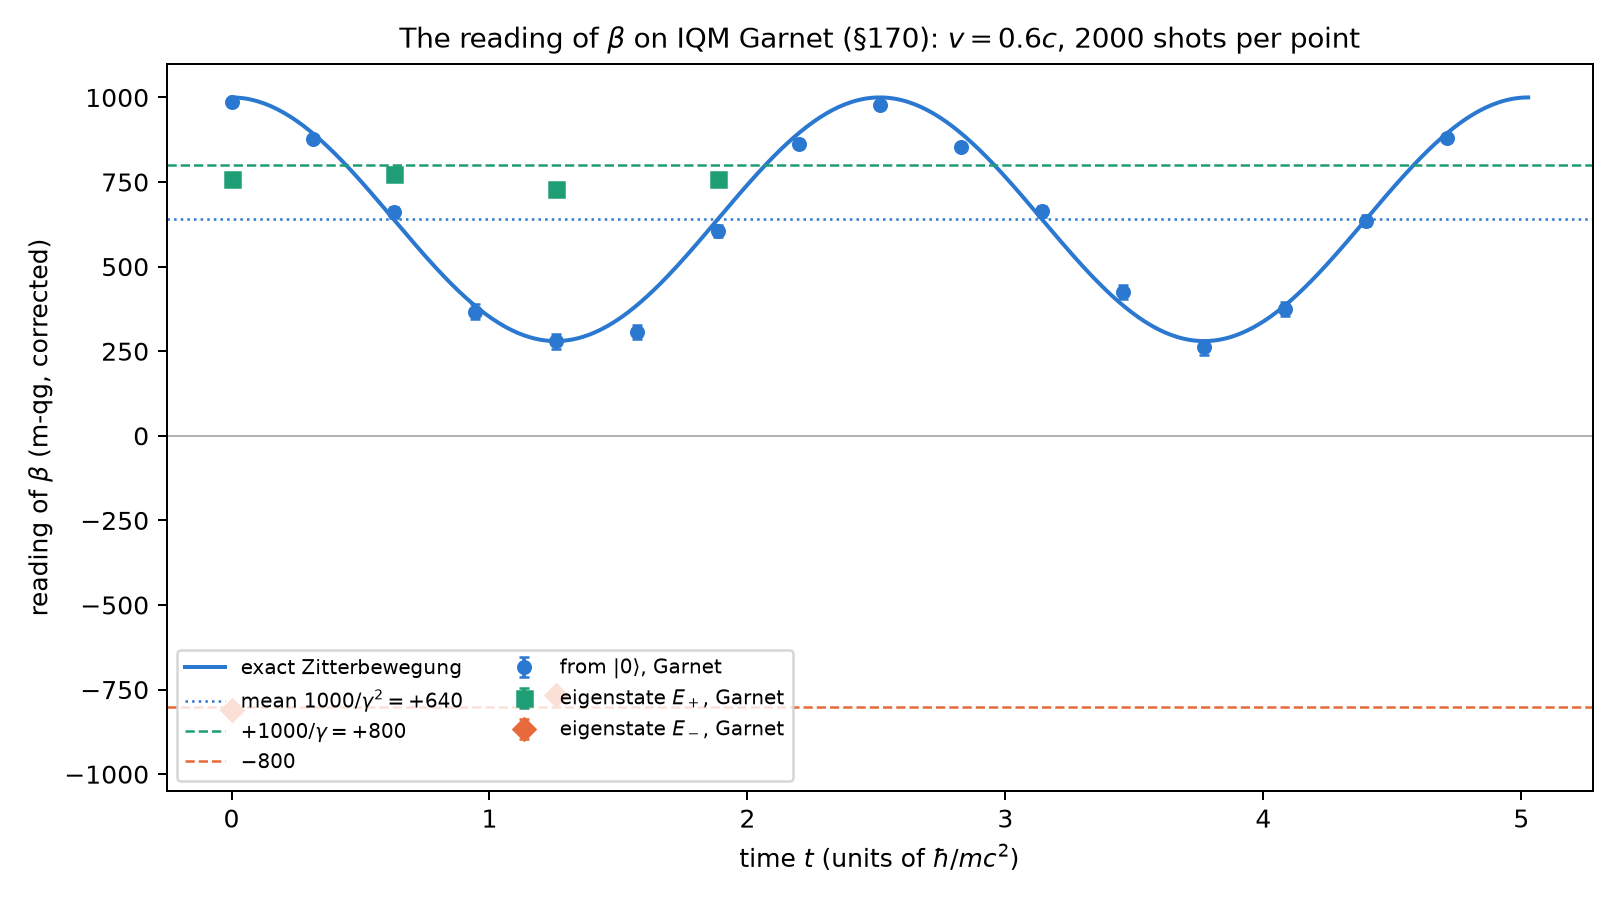
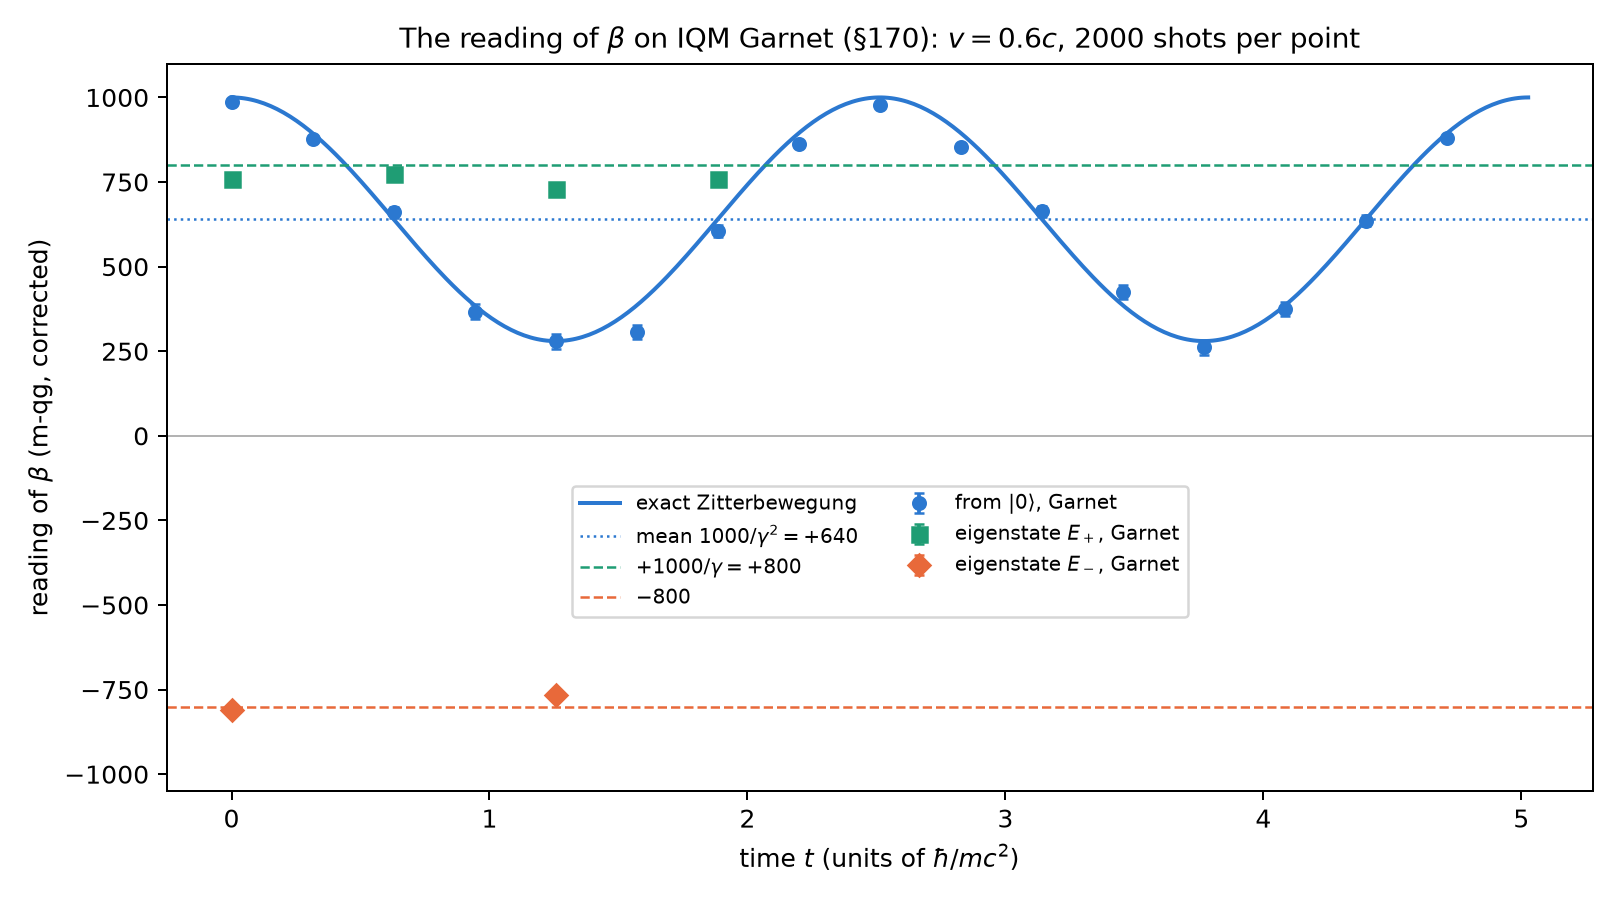
book, apéndice G y capítulo 1: la corrida §170 en IQM Garnet (ES y EN)
El apéndice G se escribió antes de la corrida y no la traía. Nueva sección con la tabla Z1–Z5 (las cinco
cumplen: E+ lee +759,9 ± 14,9 m-qg frente a +800, E− −809,4, el Zitterbewegung a 2,511 frente a 2E = 2,5,
media 625,6 y amplitud 356,1), lo que no salió limpio (sesgo de 26–71 m-qg en E+, chi²/gl 2,4) y la figura
apg_zitterbewegung.png, ya generada pero sin usar; su leyenda tapaba los puntos de E− y se movió. El
capítulo 1 nombra §170 como segunda prueba en hardware. Cifras de examples/data/iqm_zitterbewegung_qg_analysis.json.

Changed region(s): [[0.0926, 0.5289, 0.7407, 0.8711]]

diff --git a/tools/make_apendice_g_figures.py b/tools/make_apendice_g_figures.py
@@ -57,7 +57,7 @@ def main():
         ax.set_ylabel(tx["y"])
         ax.set_ylim(-1050, 1100)
         ax.set_title(tx["title"], fontsize=11)
-        ax.legend(fontsize=8, ncol=2, loc="lower left")
+        ax.legend(fontsize=8, ncol=2, loc="center", bbox_to_anchor=(0.5, 0.33))   # the empty band above E_-
         fig.tight_layout()
         os.makedirs(tx["dir"], exist_ok=True)
         path = os.path.join(tx["dir"], "apg_zitterbewegung.png")
